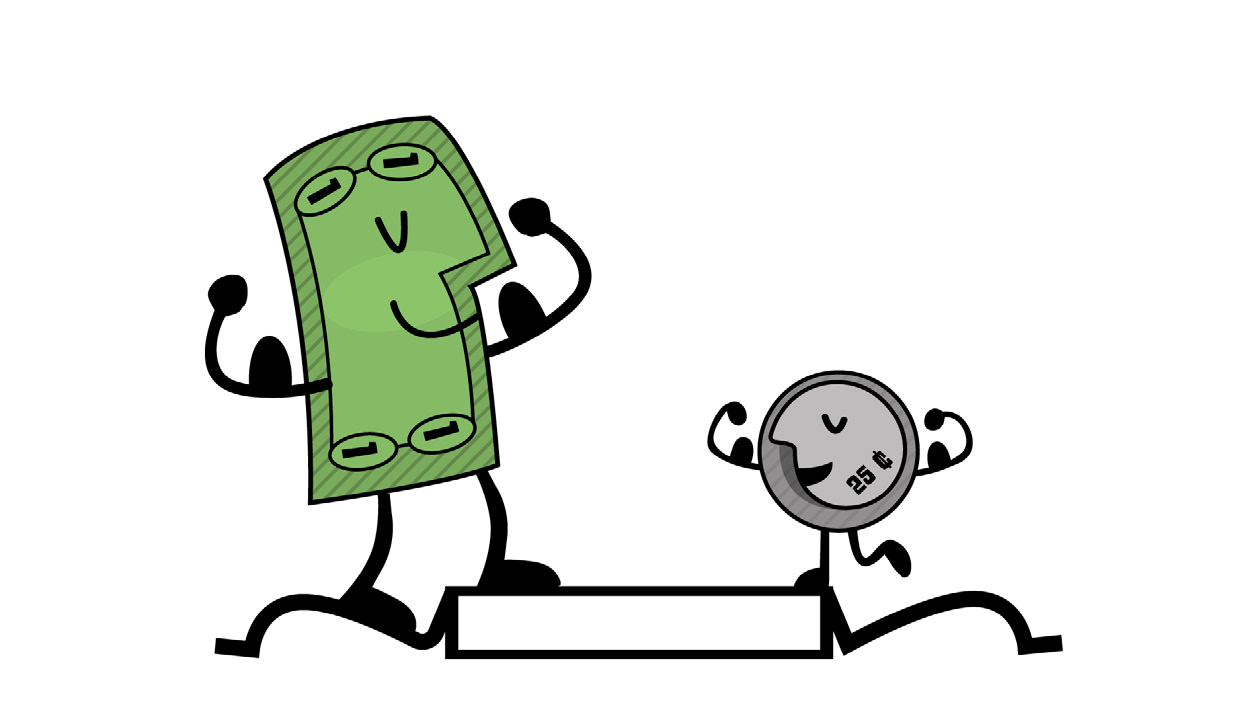
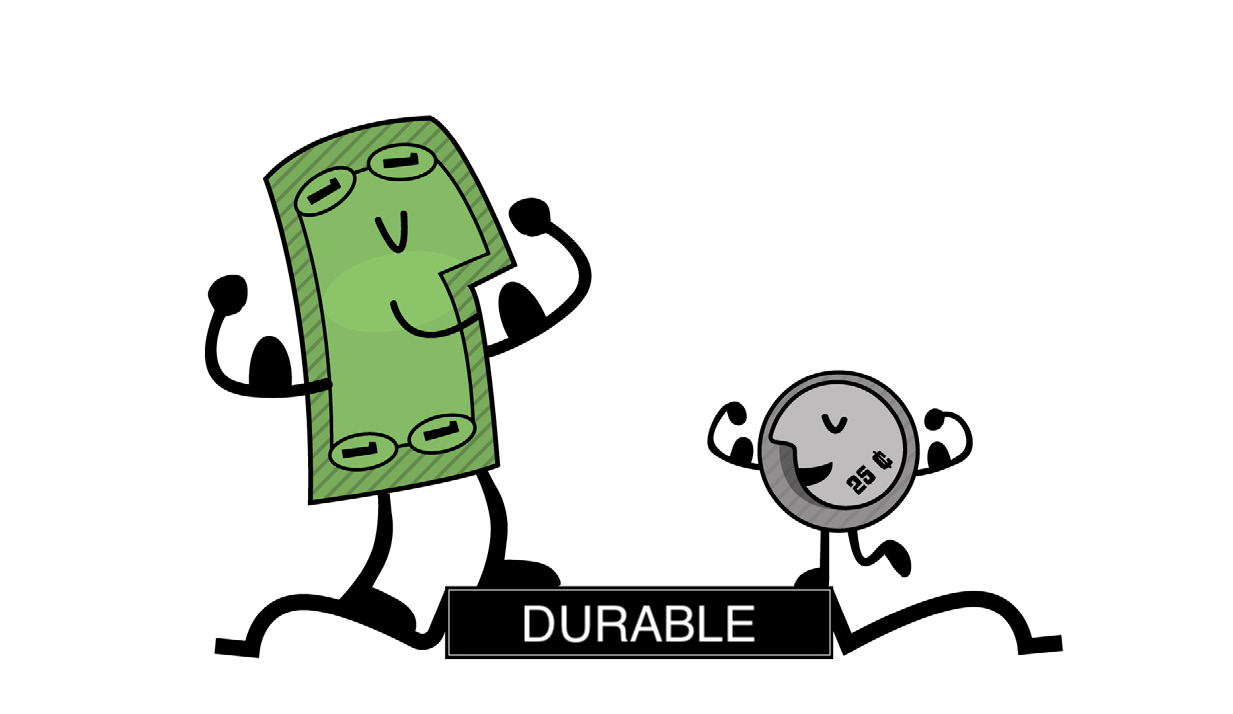
diploma chapter 1

Changed region(s): [[0.3698, 0.8319, 0.678, 0.9244]]

diff --git a/en/courses/btc-diploma/chapter-1.html b/en/courses/btc-diploma/chapter-1.html
@@ -133,7 +133,7 @@
                     </li>
                 </ul>
                 <h4>
-                    1.1 The Limited World: Navigating Scarcity in a Growing Economy
+                    1.2 The Limited World: Navigating Scarcity in a Growing Economy
                 </h4>
                 <p>
                     Imagine you are stranded in a desert and you only have one bottle of water left. You are thirsty and
@@ -206,6 +206,8 @@
 
                     </li>
                     <li>
+                        <img class="float-right" alt="time preference"
+                            src="/courses/btc-diploma/images/time-preference.png" width="50%" height="auto" />
                         On the other hand, if you choose to ration the water and drink it slowly over time, you are
                         demonstrating a lower time preference. This means that you are willing to wait to satisfy your
                         thirst in order to have a greater chance of survival in the long run.
@@ -284,10 +286,10 @@
                     </tr>
                 </table>
                 <h3>
-                    Definition of Money
+                    1.3 Definition of Money
                 </h3>
                 <h4>
-                    We Can Use It, but Can We Define It?
+                    1.3.1 We Can Use It, but Can We Define It?
                 </h4>
                 <p>
                     <img class="float-right" src="/courses/btc-diploma/images/4.jpg" width="50%" height="auto"
@@ -354,7 +356,9 @@
                 </aside>
 
                 <figure class="notice">
-                    <img src="/courses/btc-diploma/images/5.jpg" alt="Money as exchange value" width="100%" />
+                    <p class="text-align-center">
+                        <img src="/courses/btc-diploma/images/5.jpg" alt="Money as exchange value" width="50%" />
+                    </p>
                     <figcaption>
                         <p>
                             <b><i>
@@ -373,14 +377,7 @@
                         </p>
                     </figcaption>
                 </figure>
-                <aside>
-                    <p>
-                        <img alt="notice" src="/assets/images/notice.png" width="20" height="20" />
-                        Check out this short video!
-                        <a target="_blank" href="https://www.youtube.com/watch?v=InwVM6s7WoY"><i>What is
-                                <b>Money</b>?</i> </a>
-                    </p>
-                </aside>
+
                 <p>
                     In summary, <b>money:</b>
                 </p>
@@ -388,6 +385,14 @@
                 <ul>
                     <li>
                         <b>Facilitates trade</b> because <b>everyone accepts it as final payment.</b>
+                        <aside>
+                            <p>
+                                <img alt="notice" src="/assets/images/notice.png" width="20" height="20" />
+                                Check out this short video!
+                                <a target="_blank" href="https://www.youtube.com/watch?v=InwVM6s7WoY"><i>What is
+                                        <b>Money</b>?</i> </a>
+                            </p>
+                        </aside>
                     </li>
                     <li>
                         Allows us to <b>measure</b> the <b>value</b> and to <b>make comparisons</b> between different
@@ -399,7 +404,7 @@
                 </ul>
 
                 <h4>
-                    Functions of Money
+                    1.3.2 Functions of Money
                 </h4>
                 <p>
                     When it comes to buying and selling goods and services, money is the key player. It has several
@@ -429,8 +434,115 @@
                                 length of time it took to make the car.
                             </li>
                         </ul>
+                        <aside>
+                            <p>
+                                <img alt="notice" src="/assets/images/notice.png" width="20" height="20" />
+                                <b>Unit of Account</b>
+                            </p>
+                            <p>
+                                <i>Consumers know the value of something when you assign
+                                    a price (monetary value) to it.</i>
+                            </p>
+                        </aside>
+                        <p>
+                            <img alt="Music player" src="/courses/btc-diploma/images/7.jpg" width="35%" />
+                            <img alt="Mobile phone" src="/courses/btc-diploma/images/6.png" width="25%" />
+                        </p>
+                    </li>
+                    <li>
+                        <b>
+                            Being a store of value:
+                        </b>
+                        Money should maintain its value over time, making it useful as a way to save and invest the
+                        value of human labor. This allows people to use money as a tool to plan for the future and to
+                        borrow and lend money to
+                        each other.
+                        <img alt="Store of value" src="/courses/btc-diploma/images/store-of-value.png" width="100%" />
                     </li>
                 </ul>
+                <p>
+                    So next time you&apos;re saving up for something special, remember that money is more than just a
+                    way
+                    to pay for things - it&apos;s a tool to help you plan and invest in your future.
+                </p>
+                <p>
+                    These three functions are what allow economies to become complex and dynamic. Without money, it
+                    would be much harder to
+                    buy and sell goods and services, and our economy would be much less developed.
+                </p>
+                <p class="class-exercise background-orange">
+                    <b>
+                        Class Exercise: What function of money is this an example of?
+                    </b>
+                </p>
+                <ol>
+                    <li>
+                        Robby decided to save a portion of his weekly paychecks to buy a puppy.
+                    </li>
+                    <li>
+                        Jim buys two slices of pizza for $8.30 at Ray&apos;s Pizza.
+                    </li>
+                    <li>
+                        Marc can&apos;t decide whether to buy concert tickets for $75 or buy a ski pass for $95.
+                    </li>
+                </ol>
+
+                <h4>
+                    1.3.3 Money Characteristics
+                </h4>
+                <p>
+                    Over time, people ultimately have realized that money must possess certain qualities in order to be
+                    effective as a
+                    medium of exchange. These characteristics include durability, portability, divisibility,
+                    fungibility, scarcity, and
+                    acceptability.
+                </p>
+                <ul>
+                    <li>
+                        <img class="float-right" alt="Store of value" src="/courses/btc-diploma/images/9.png"
+                            width="50%" />
+                        <b>
+                            Durability
+                        </b>
+                        refers to the ability of money to resist physical deterioration and last over time. This ensures
+                        that money
+                        can circulate in the economy in an acceptable and recognizable state.
+                        <br />
+                        Gold is a durable material that can withstand wear and tear, making it a good representation
+                        of
+                        the durability
+                        characteristic of money.
+                    </li>
+                    <li>
+                        <img class="float-right" alt="Store of value" src="/courses/btc-diploma/images/11.png"
+                            width="50%" />
+                        <b>
+                            Portability
+                        </b>
+                        refers to the ease with which money can be transported and carried around. This allows
+                        people to use money to buy and
+                        sell goods and services without difficulty.
+                        <br />
+                        Credit cards are portable, as they can easily be carried in a wallet or purse, making them a
+                        good representation of the
+                        portability characteristic of money.
+                    </li>
+                    <li>
+                        <img class="float-right" alt="Store of value" src="/courses/btc-diploma/images/12.png"
+                            width="50%" />
+                        <b>
+                            Acceptability
+                        </b>
+                        refers to the widespread acceptance of money as a form of payment, so that people can use it
+                        to buy and sell goods and
+                        services with confidence.
+                        <br />
+                        The US dollar is widely accepted as a form of payment, making it a good representation of the
+                        acceptability
+                        characteristic of money.
+                    </li>
+                </ul>
+
 
 
             </section>

diff --git a/assets/stylesheet/core.css b/assets/stylesheet/core.css
@@ -50,6 +50,9 @@
        url('../fonts/ubuntu-v20-latin-regular.svg#Ubuntu') format('svg'); /* Legacy iOS */
 }
 
+.class-exercise{
+  padding: 1rem;
+}
 .orange {
   color: orange;
 }
@@ -81,7 +84,7 @@ span.notice {
 .list-style-none{
   list-style: none;
 }
-p {
+p, li {
   text-align: justify;
 }
 aside p {
@@ -502,7 +505,7 @@ th {
 }
 
 th {
-  background-color: var(--accent-bg);
+  background-color: orange;
   font-weight: bold;
 }
 
